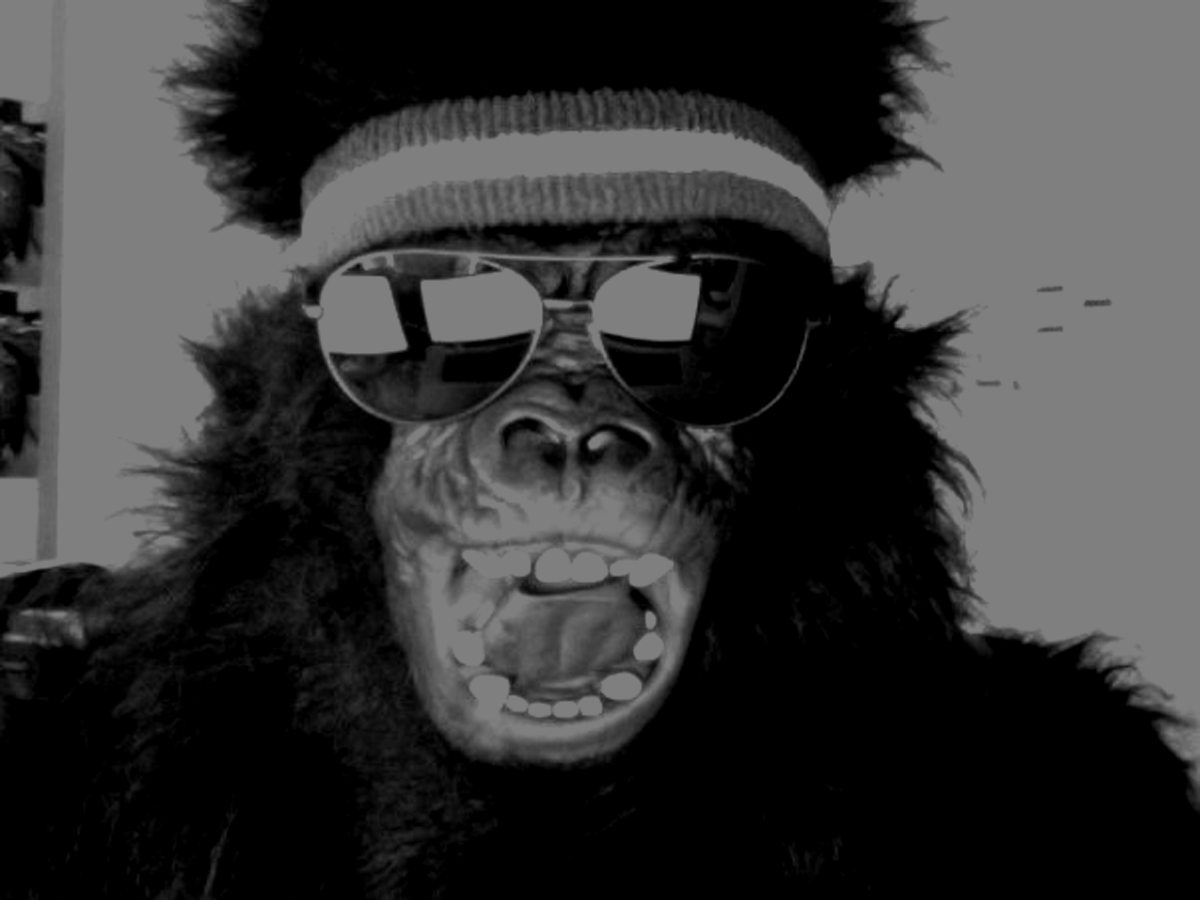
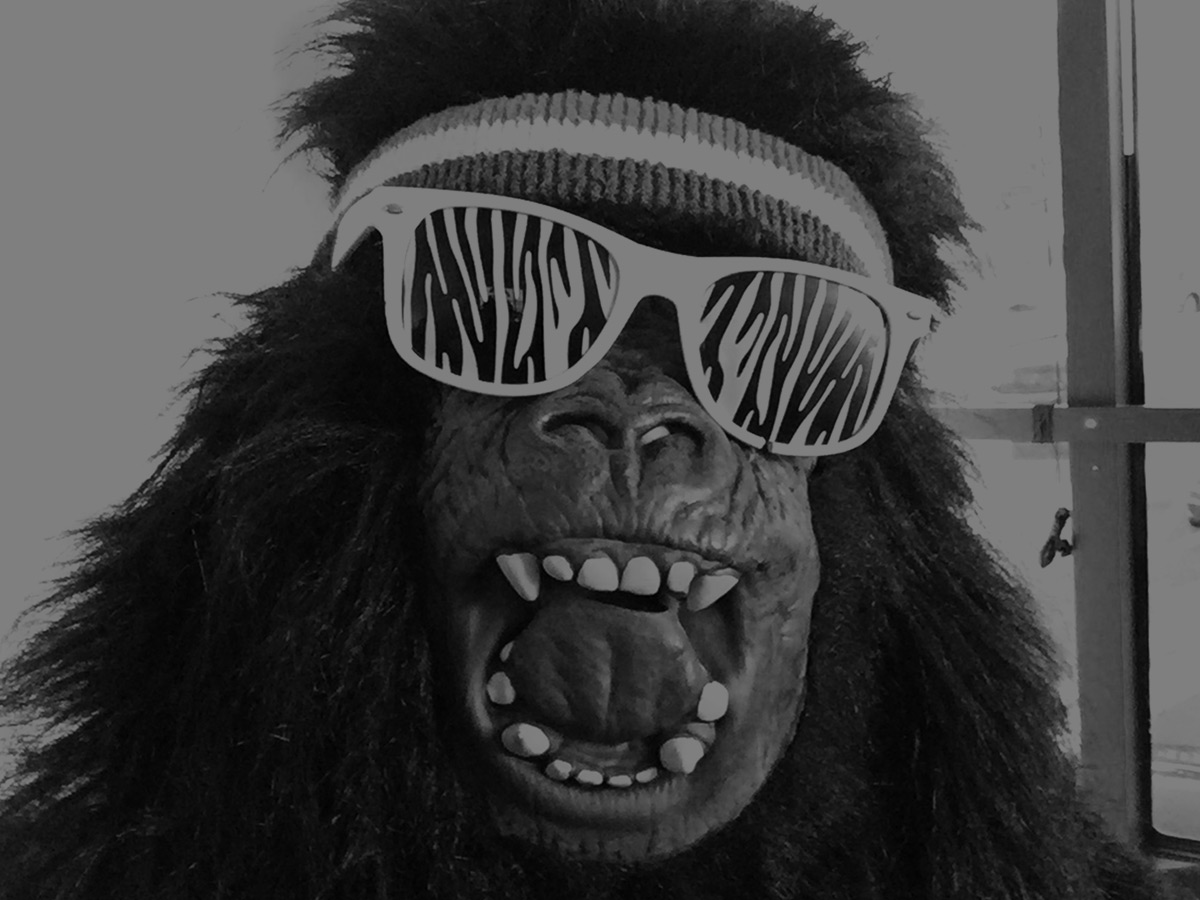
New homepage

diff --git a/app/assets/stylesheets/partials/_grid.scss b/app/assets/stylesheets/partials/_grid.scss
@@ -1,14 +1,12 @@
 body {
-  background: asset-url('gorilla.png') no-repeat center center fixed;
+  background: linear-gradient(
+                rgba(0, 0, 0, 0.5), 
+                rgba(0, 0, 0, 0.5)
+              ), asset-url('gorilla.png') no-repeat center center fixed;
   -webkit-background-size: cover;
   -moz-background-size: cover;
   -o-background-size: cover;
   background-size: cover;
-    -webkit-animation: fadein 1s;
-    -moz-animation: fadein 1s; /* Firefox */
-    -ms-animation: fadein 1s; /* Internet Explorer */
-    -o-animation: fadein 1s; /* Opera */
-    animation: fadein 1s;
 }
 
 div#jumbo {
@@ -25,12 +23,13 @@ div#jumbo {
 }
 
 .logo  {
-  @media #{$small-only} {
-    max-width: 50%;
-  }
-  max-width: 70%;
+  // @media #{$small-only} {
+  //   max-width: 50%;
+  // }
+  // max-width: 70%;
   width: 100%;
   height: auto;
+  margin-bottom: 65px;
 }
 
 div#app-download {
@@ -47,6 +46,12 @@ div#app-download {
     height: auto;
     width: 100%;
   }
+}
+
+.white-button {
+  @include button($padding: rem-calc(22), $bg: white, $radius:10px);
+  font-weight: bold;
+  font-size: 25px;
 }
 
 @-webkit-keyframes fadein {
